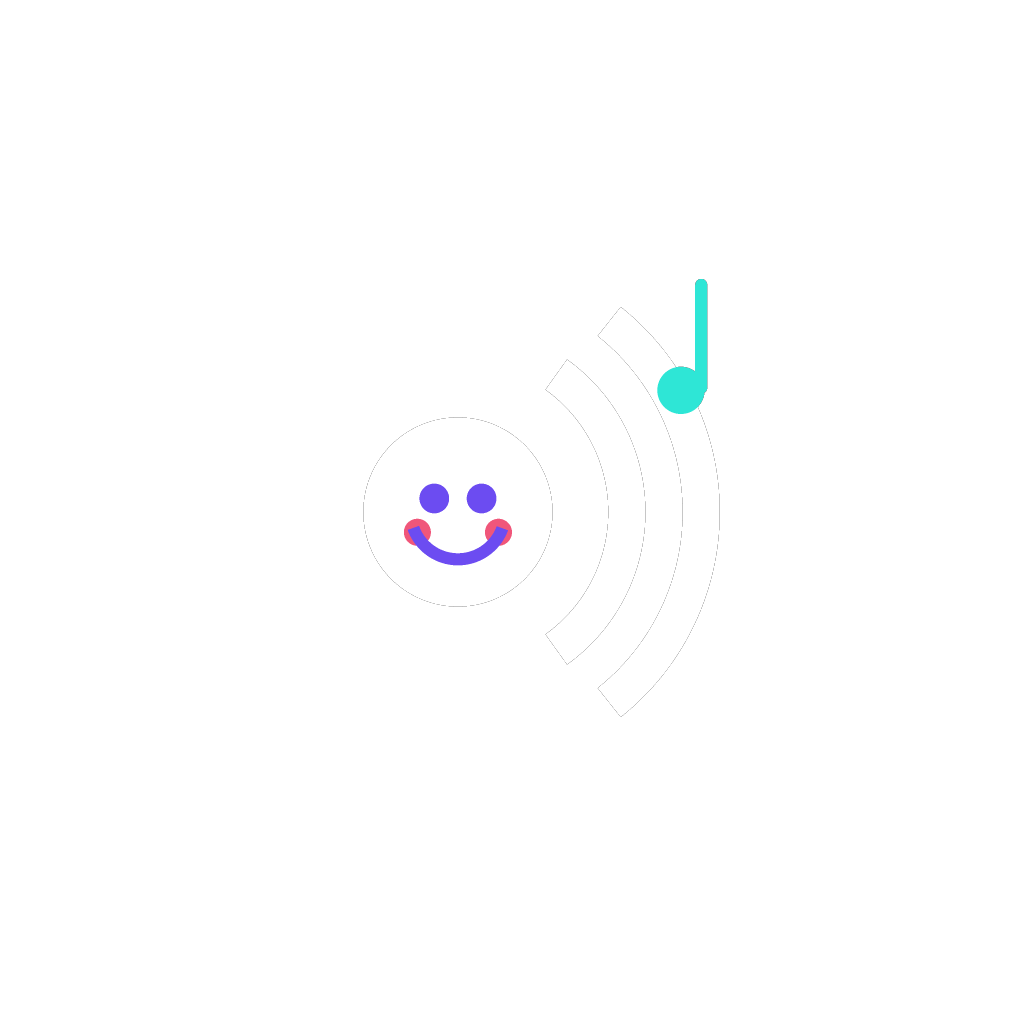
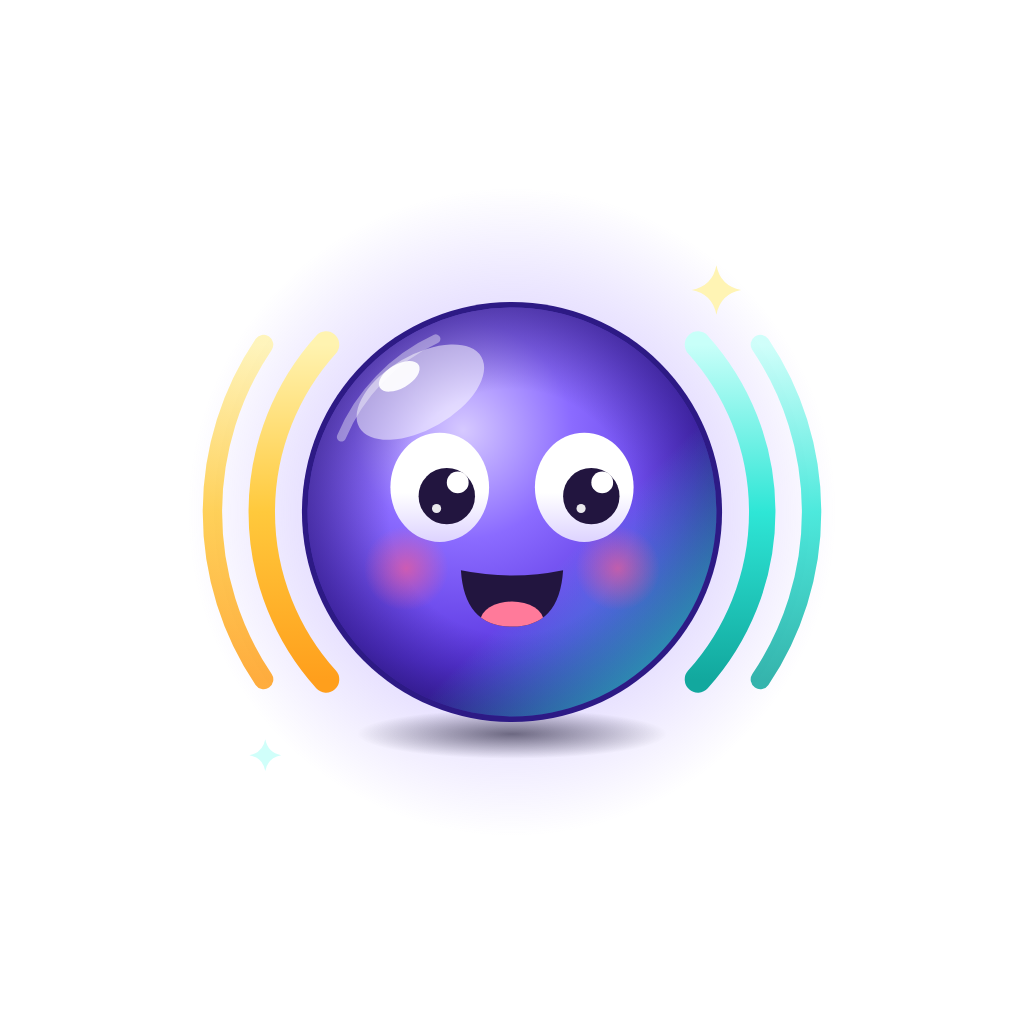
Marka: yeni uygulama ikonu (A · Odi), uyarlanabilir/temalı Android ikonu, açılış görseli, web simgeleri ve Play mağaza görselleri (YN-010)
Tek kaynak tools/ikon/kavramlar.mjs; tools/ikon-uret.mjs hepsini Playwright ile üretir (eski
apps/mobile/tools/make-icons.mjs kaldırıldı, npm run icons yeni betiği çağırır). app.json: uyarlanabilir
arka yüz #140c35 + gece görseli, Android 13 monochromeImage, açılış 200 dp. PWA testi maskable/apple-touch
köşelerinde koyu mor zemini kabul eder.

Claude-Session: https://claude.ai/code/session_01GXKKYsCKpis1ndJUnFVKGr

Changed region(s): [[0.1875, 0.25, 0.8125, 0.75], [0.25, 0.7188, 0.2812, 0.75]]

diff --git a/docs/18-sunucu-kurulum.md b/docs/18-sunucu-kurulum.md
@@ -184,8 +184,8 @@ simgeler) ilk açılışta önbelleğe alır, anlatıcı kayıtlarını (`voice/
 `/olcum`'a dokunmaz. `odi-guncelle`den sonra: açılışta önce sunucudaki `index.html` istenir (5 sn'de gelmezse önbellekteki),
 yani oyuncu uygulamayı yeniden açtığında yeni sürümü görür; açık oyun ortasında sayfa yenilenmez, yeni service worker
 bir sonraki açılışta etkinleşip eski önbelleği siler. `sw.js` Caddy'de `no-cache` ile sunulur (yukarıdaki "her şey" kuralı).
-Simgeleri yenilemek (sahip yeni simge verince): `node tools/ikon-uret.mjs --kaynak yeni.svg [--zemin '#6c4cf1']` →
-`apps/web/public/icons/*.png`. Test: `node tools/harness/pwa-e2e.mjs` (Chromium + WebKit).
+Simgeleri yenilemek: `node tools/ikon-uret.mjs` (kaynak `tools/ikon/kavramlar.mjs`, seçilen kavram A · Odi, YN-010) →
+`apps/web/public/icons/*.png`, `favicon.svg`, mobil ikon/açılış görselleri ve mağaza görselleri. Test: `node tools/harness/pwa-e2e.mjs` (Chromium + WebKit).
 
 ## 6. Sorun giderme
 

diff --git a/apps/mobile/README.md b/apps/mobile/README.md
@@ -12,7 +12,7 @@ apps/mobile/
   src/dom/LevelDom.tsx  'use dom' bileşeni: startLevel(...) → Phaser; window.__odi test köprüsü
   src/store/          zustand + persist(AsyncStorage): progress, coins, xp, skills, sounds, haptics, failStreak, recentStars, streak
   src/ui/             tema (apps/web/styles.css ile aynı renkler) ve küçük bileşenler + ErrorBoundary
-  tools/make-icons.mjs  ikon/splash üretimi (saf JS PNG yazıcı, bağımlılık yok)
+  (ikon/açılış görseli: kökte `tools/ikon-uret.mjs`, `npm run icons` aynı betiği çağırır)
   tools/domcheck.mjs    www.bundle DOM sayfasını Playwright'ta stub köprüyle açıp 1. bölümü botla oynatır
   __tests__/            jest-expo duman testi (harita)
 ```
